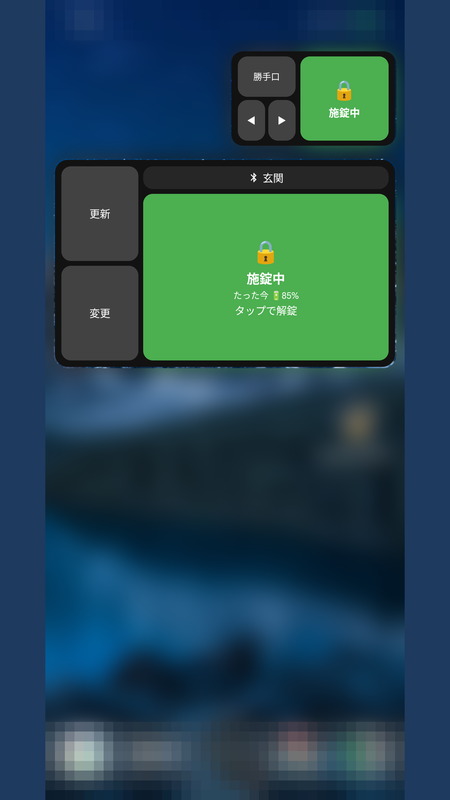
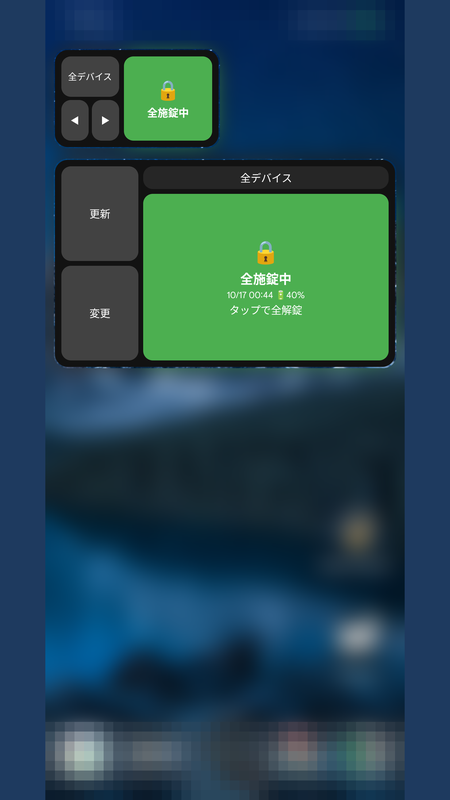
docs: 📝 紹介ページを0.14.3の内容へ見直す (BL-252)
site/index.htmlの版をv0.14.3へ上げ、ダイヤル操作・クイック設定パネルと
長押しメニュー・通知の機能カードを追加し、操作履歴の名称を合わせた。
ヒーロー画像を撮り直した掲載画像から作り直し、app.jsonの版と更新日を更新した。
公開はmainへのマージ後にユーザーが行う(BL-242へ記録)。

BL-252, BL-242

diff --git a/site/index.html b/site/index.html
@@ -56,10 +56,10 @@
             <a class="button primary" href="https://github.com/filderschoice/sesami-wear/blob/main/docs/CLOSED_TEST.md">クローズドテストに参加</a>
             <a class="button" href="https://github.com/filderschoice/sesami-wear">ソースコード</a>
           </div>
-          <p class="meta">v0.14.0 ・ Android 8.0 以上 ・ Wear OS 3 以上（任意） ・ MIT License ・ 広告なし</p>
+          <p class="meta">v0.14.3 ・ Android 8.0 以上 ・ Wear OS 3 以上（任意） ・ MIT License ・ 広告なし</p>
         </div>
         <div class="hero-visual">
-          <img src="assets/phone-widget.png" alt="スマートフォンのホーム画面に置いた Sesami Wear のウィジェット。施錠中の状態と、更新・変更のボタンが表示されている（壁紙とステータスバーはぼかし加工）" width="450" height="800">
+          <img src="assets/phone-widget.png" alt="スマートフォンのホーム画面に置いた Sesami Wear の大小2つのウィジェット。全デバイスが施錠中の状態と取得日時、更新・変更のボタンが表示されている（壁紙とステータスバーはぼかし加工）" width="450" height="800">
         </div>
       </div>
     </section>
@@ -102,9 +102,24 @@
             <p>Sesame の近くでは Bluetooth で直接操作し、離れているときはインターネット経由へ自動で切り替えます。どちらで操作したかも表示します。</p>
           </li>
           <li class="card">
+            <span class="tag">ダイヤル</span>
+            <h3>サムターンを回す感覚で</h3>
+            <p>スマートフォンの「ダイヤル操作」で、サムターンの角度を針で見ながら、円を半周なぞって施錠・解錠できます。Bluetooth で届くときだけ操作します。</p>
+          </li>
+          <li class="card">
+            <span class="tag">ショートカット</span>
+            <h3>パネルや長押しからも</h3>
+            <p>クイック設定パネルの「Sesame」タイルや、アプリアイコンの長押しメニュー（全施錠・状態を更新）から、アプリを開かずに操作できます。</p>
+          </li>
+          <li class="card">
+            <span class="tag">通知</span>
+            <h3>締め忘れと電池切れに気づける</h3>
+            <p>解錠したまま設定した時間がたったとき（既定はオフ）と、電池残量が 20% を下回ったときに、スマートフォンへ通知します。</p>
+          </li>
+          <li class="card">
             <span class="tag">診断</span>
             <h3>電池残量と操作の記録</h3>
-            <p>Sesame の電池残量を表示し、直近 50 件の施錠・解錠・状態取得を診断ログで確認できます。不具合の報告にもそのまま使えます。</p>
+            <p>Sesame の電池残量を表示し、直近 50 件の施錠・解錠・状態取得を「操作履歴（診断ログ）」で確認できます。不具合の報告にもそのまま使えます。</p>
           </li>
           <li class="card">
             <span class="tag">デモ</span>

diff --git a/docs/records/managed/BACKLOG.md b/docs/records/managed/BACKLOG.md
@@ -5,18 +5,6 @@
 
 <!-- COPILOT_RECORDS:BEGIN -->
 ```yaml
-- id: BL-252
-  区分: 品質ゲート
-  タスク内容: site/（紹介ページ）を0.14.3の内容へ見直す。機能紹介へ通知・クイック設定のタイル・
-    ダイヤル操作・アイコン長押しを追記し、ヒーロー画像（phone-widget.png）をBL-250の撮り直し画像から
-    作り直し、app.jsonの版と更新日を合わせる
-  優先度: P2
-  状態: 未着手
-  担当: AIエージェント
-  完了条件: site/index.html・app.json・assets/が0.14.3の内容になっている（公開はmainへのマージ後にユーザーが行う）
-  根拠: 2026-10-17のユーザー指示。site/README.mdの更新方針
-  依存: []
-
 - id: BL-242
   区分: 人手検証
   タスク内容: 0.14.3で追加・変更した機能を実機（Pixel 8 Pro）で確認する。
@@ -39,7 +27,8 @@
     2026-10-17にダークテーマで撮り直し済み（BL-250）。
     (8) リリース時に`docs/store/STORE_LISTING.md`の詳細な説明（0.14.3の機能を追記済み）とスクリーンショット
     （phone_1〜phone_8、BL-250）をPlay Consoleへ反映し、
-    `site/index.html`の機能紹介へ通知・クイック設定・ダイヤル操作を追記する（site/README.mdの更新方針どおりリリース時に行う）。
+    0.14.3の内容へ更新済みのsite/（BL-252）を、mainへのマージ後に`git subtree push --prefix site origin gh-pages`で公開する
+    （site/README.md「GitHub Pages での公開」）。
     (2)〜(7)の画面表示と操作の流れは、デバッグ版の撮影モードで実機・実資格情報なしでも先に確認できる
     （BL-246。ダイヤル操作は撮影用の状態で動き、Bluetoothを使わない。手順は撮影モードの操作画面の説明文）。
     実物の角度との一致（(6)）と、実資格情報での通知・操作は実機で確認する。

diff --git a/CHANGELOG.md b/CHANGELOG.md
@@ -7,6 +7,17 @@
 - コード修正1件ごとの実施記録: [docs/records/managed/EXECUTE.md](docs/records/managed/EXECUTE.md)
 - 本ファイル: 上記以外（運用ルール、ドキュメント構成、ガードレールの変更）
 
+## 2026-10-17（BL-252 紹介ページを0.14.3の内容へ見直す）
+
+紹介ページ（`site/`）を0.14.3の内容へ更新しました（ユーザー指示）。公開（`gh-pages` への反映）は
+`main` へのマージ後にユーザーが行います（BL-242 に記録）。
+
+- `site/index.html`: 版を v0.14.3 へ、機能カードへ「ダイヤル操作」「クイック設定パネル・長押しメニュー」
+  「通知」の3枚を追加、「診断ログ」を「操作履歴（診断ログ）」へ、ヒーロー画像の代替テキストを更新
+- `site/assets/phone-widget.png`: 撮り直した `phone_1_widget_locked.png`（BL-250）から 450x800 で作り直し
+- `site/app.json`: `version` を 0.14.3、`updated` を 2026-10-17 へ
+- 「画面」セクションのウォッチ画面は、ウォッチ側の表示が変わっていないため据え置き
+
 ## 2026-10-17（BL-251 リリースに向けたドキュメントの最新化）
 
 0.14.3のリリースに向けて、利用者向けドキュメントを実装と突き合わせて更新しました（ユーザー指示）。
